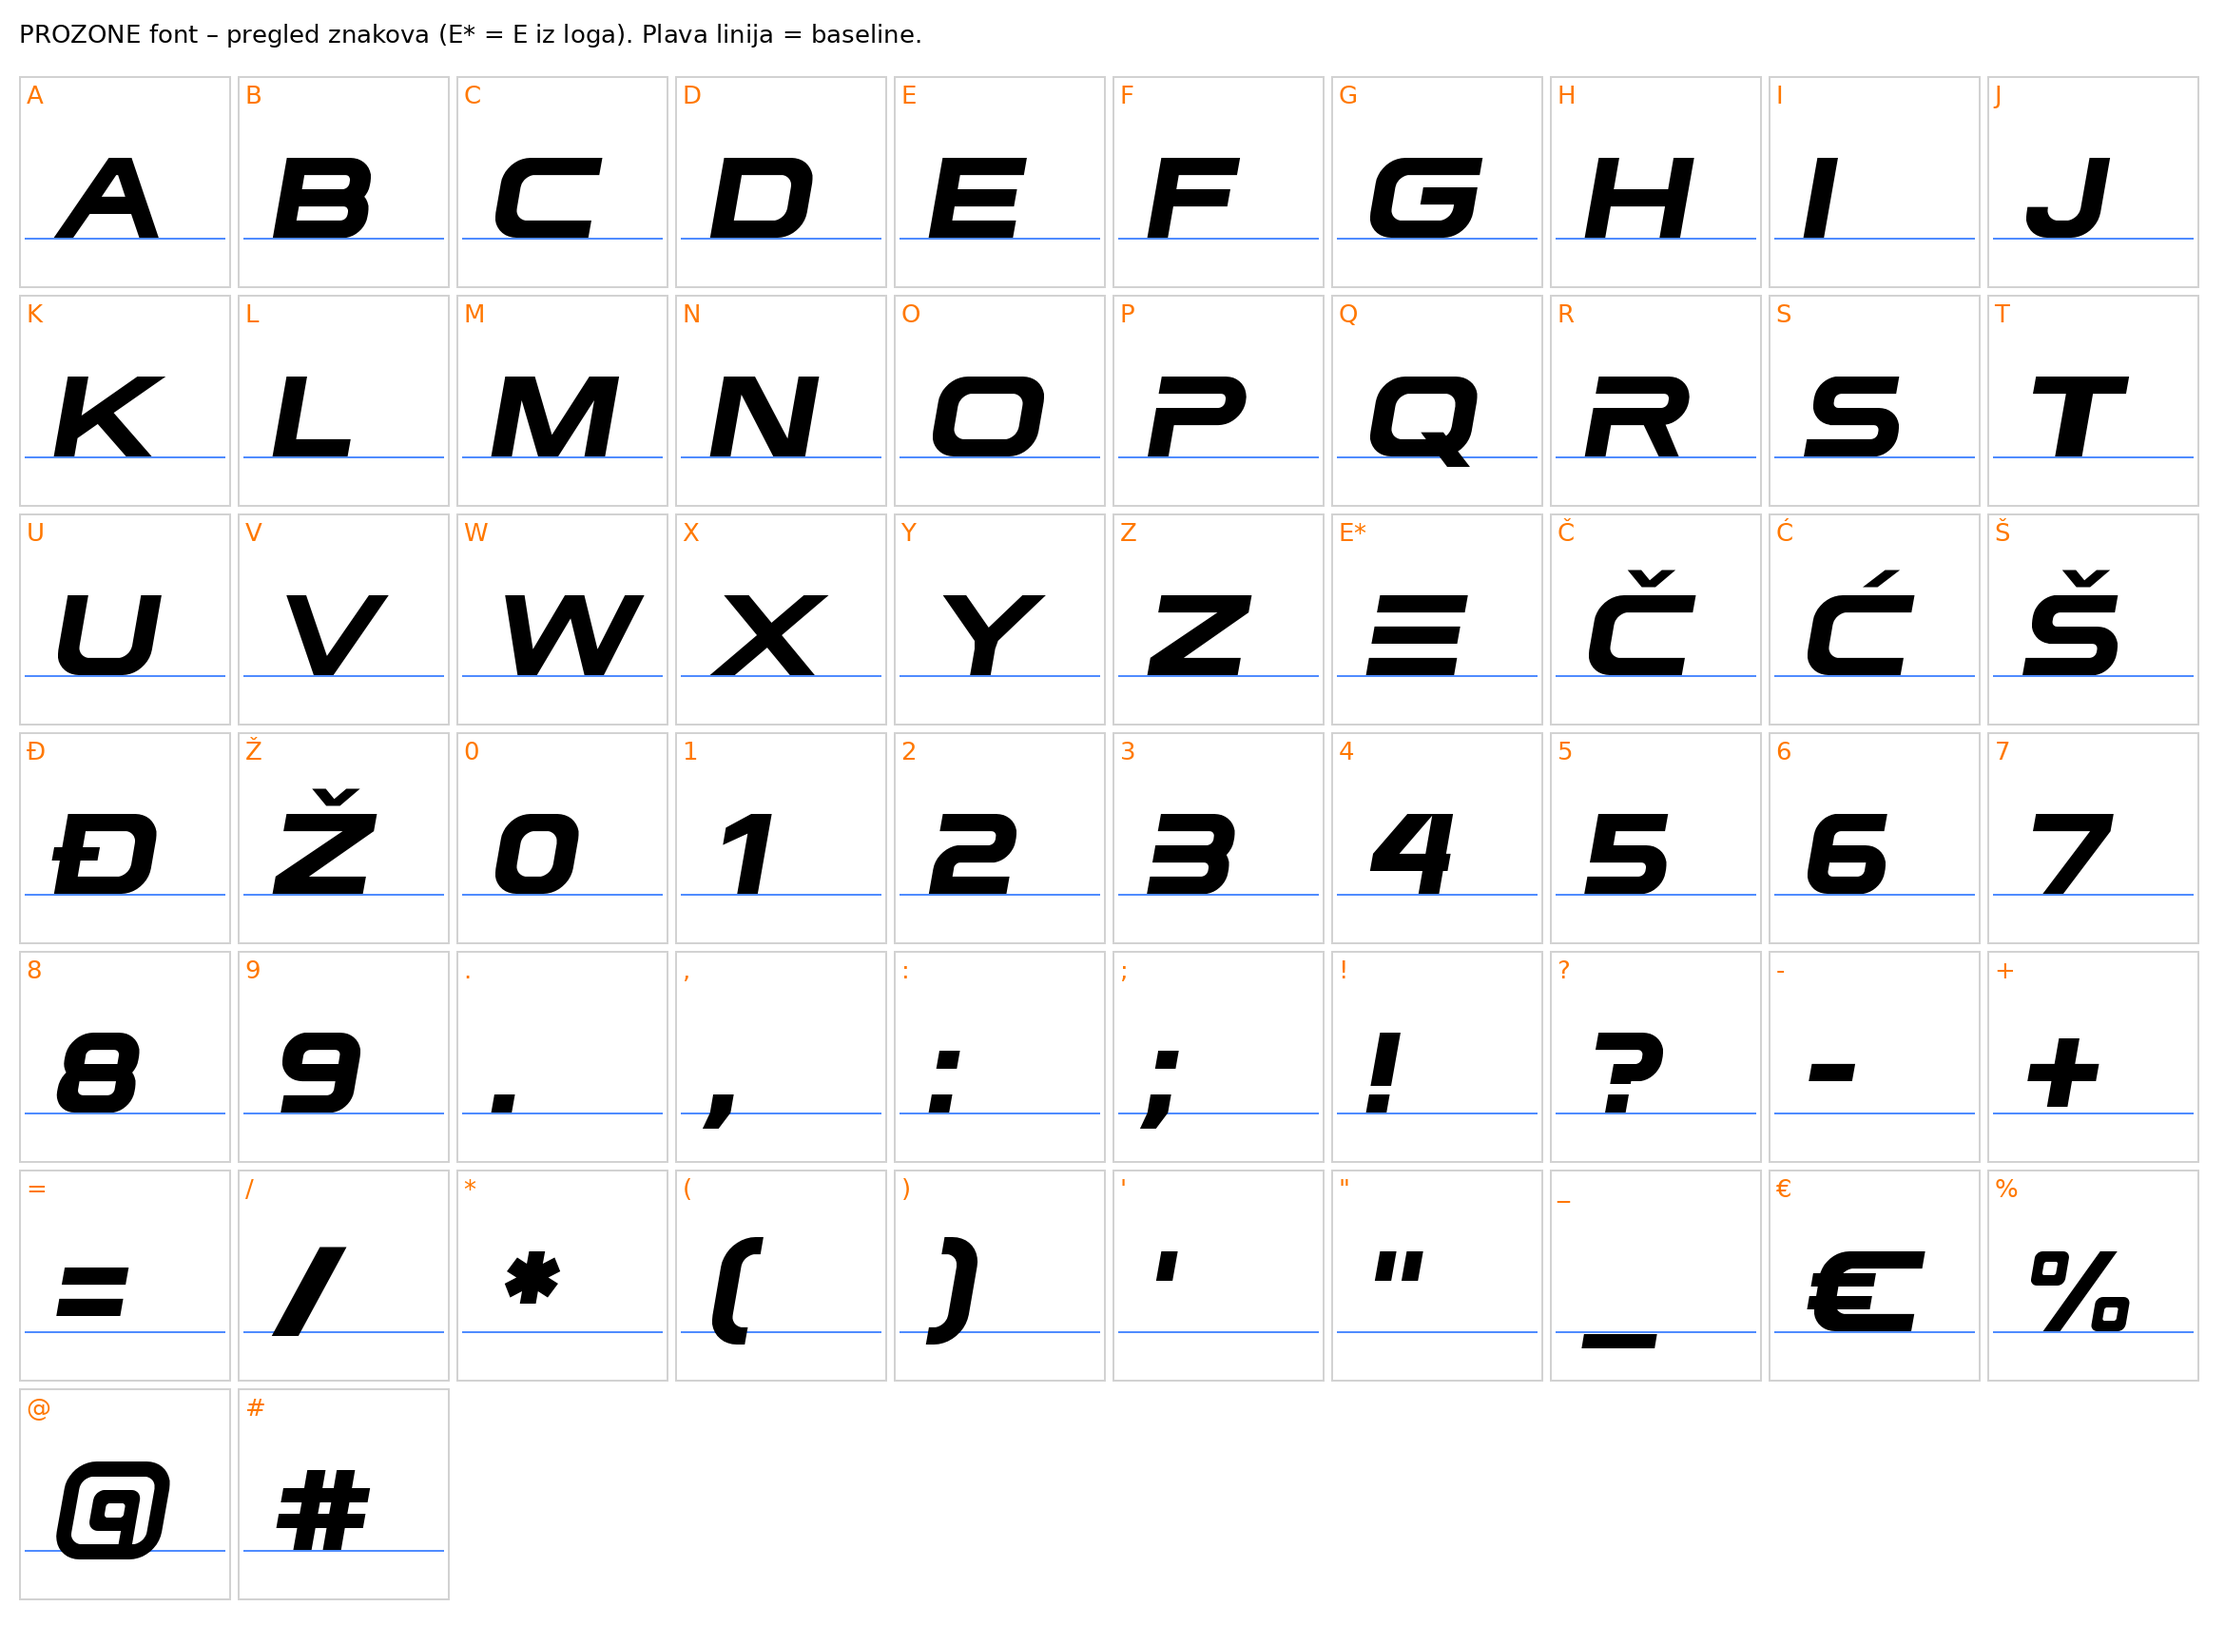
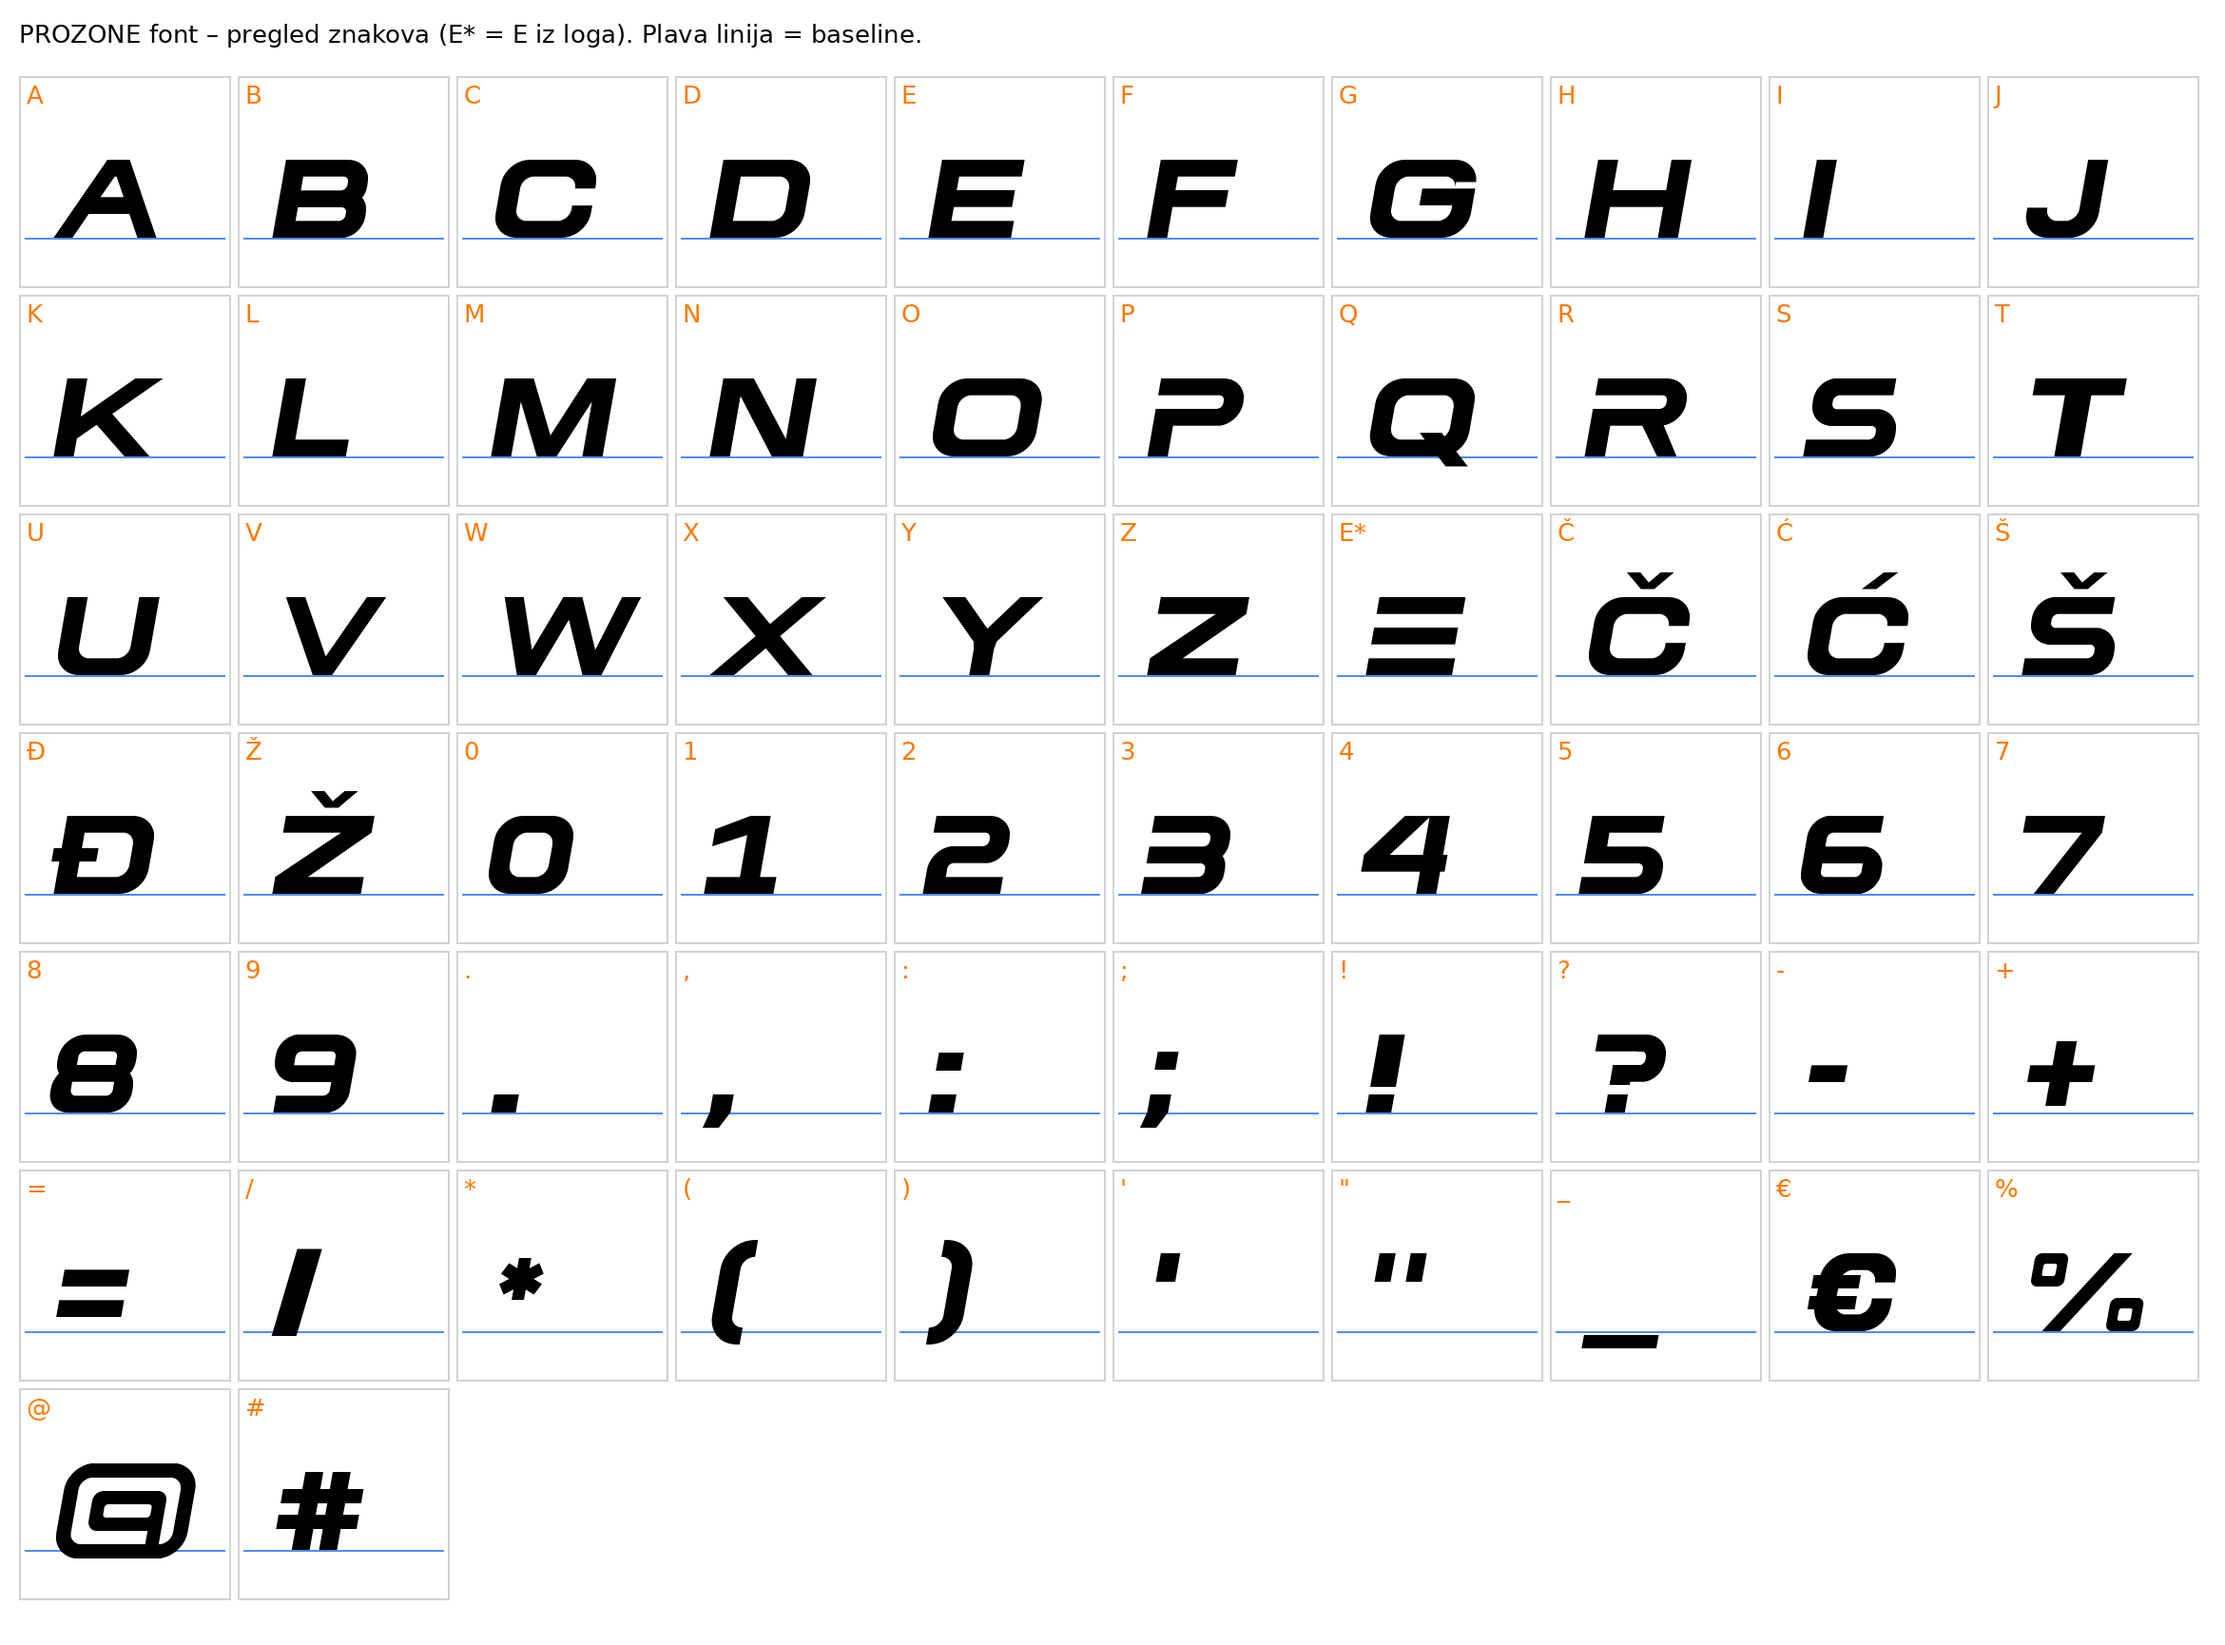
Font: new C/Č/Ć (both ends curved like O, opening = G crossbar) and G (top arc like O)
Claude-Session: https://claude.ai/code/session_01VgbUEcHceGpcGcRoLDMoQW

diff --git a/font/build_prozone_font.py b/font/build_prozone_font.py
@@ -123,10 +123,12 @@ def g_B():
 
 
 def g_C():
-    # krajevi C odsjeceni ravno (bez zaobljenog ugla na desnoj strani)
-    # mjere kao O iz loga (sirina 887, zaobljenja 222 / 109, rupa 181..707 x 152..550)
+    # C: svi lukovi kao O iz loga (zaobljenja 222 / 109), oba kraja se savijaju prema dolje/gore
+    # i odsjeceni su ravno; otvor iste visine i na istoj visini kao precka G (290..442). Odabrao vlasnik.
     W = 887
-    return rr(0, 0, W, CAP, tl=222, bl=222).difference(rr(181, 152, W + 1, 550, tl=109, bl=109)), W
+    o = rr(0, 0, W, CAP, tl=222, tr=222, bl=222, br=222)
+    return o.difference(rr(181, 152, W - 181, 550, tl=109, tr=109, bl=109, br=109)).difference(
+        box(W - 182, 290, W + 1, 290 + H)), W
 
 
 def g_D():
@@ -156,10 +158,12 @@ def g_F():
 
 def g_G():
     # oblik i desni luk kao O iz loga; gornji kraj odsjecen ravno kao kod C
+    # gornji desni luk se savija prema dolje kao kod O, kraj odsjecen ravno na 500. Odabrao vlasnik.
     W = 887
-    g = rr(0, 0, W, CAP, tl=222, bl=222, br=222).difference(rr(181, 152, 707, 550, tl=109, bl=109, br=109))
+    g = rr(0, 0, W, CAP, tl=222, tr=222, bl=222, br=222).difference(
+        rr(181, 152, 706, 550, tl=109, tr=109, bl=109, br=109))
     b0, b1 = 290, 290 + H                  # precka G (152)
-    g = g.difference(box(706, b1, W + 1, 550))
+    g = g.difference(box(705, b1, W + 1, 500))
     return U(g, box(W * 0.48, b0, 708, b1)), W
 
 
